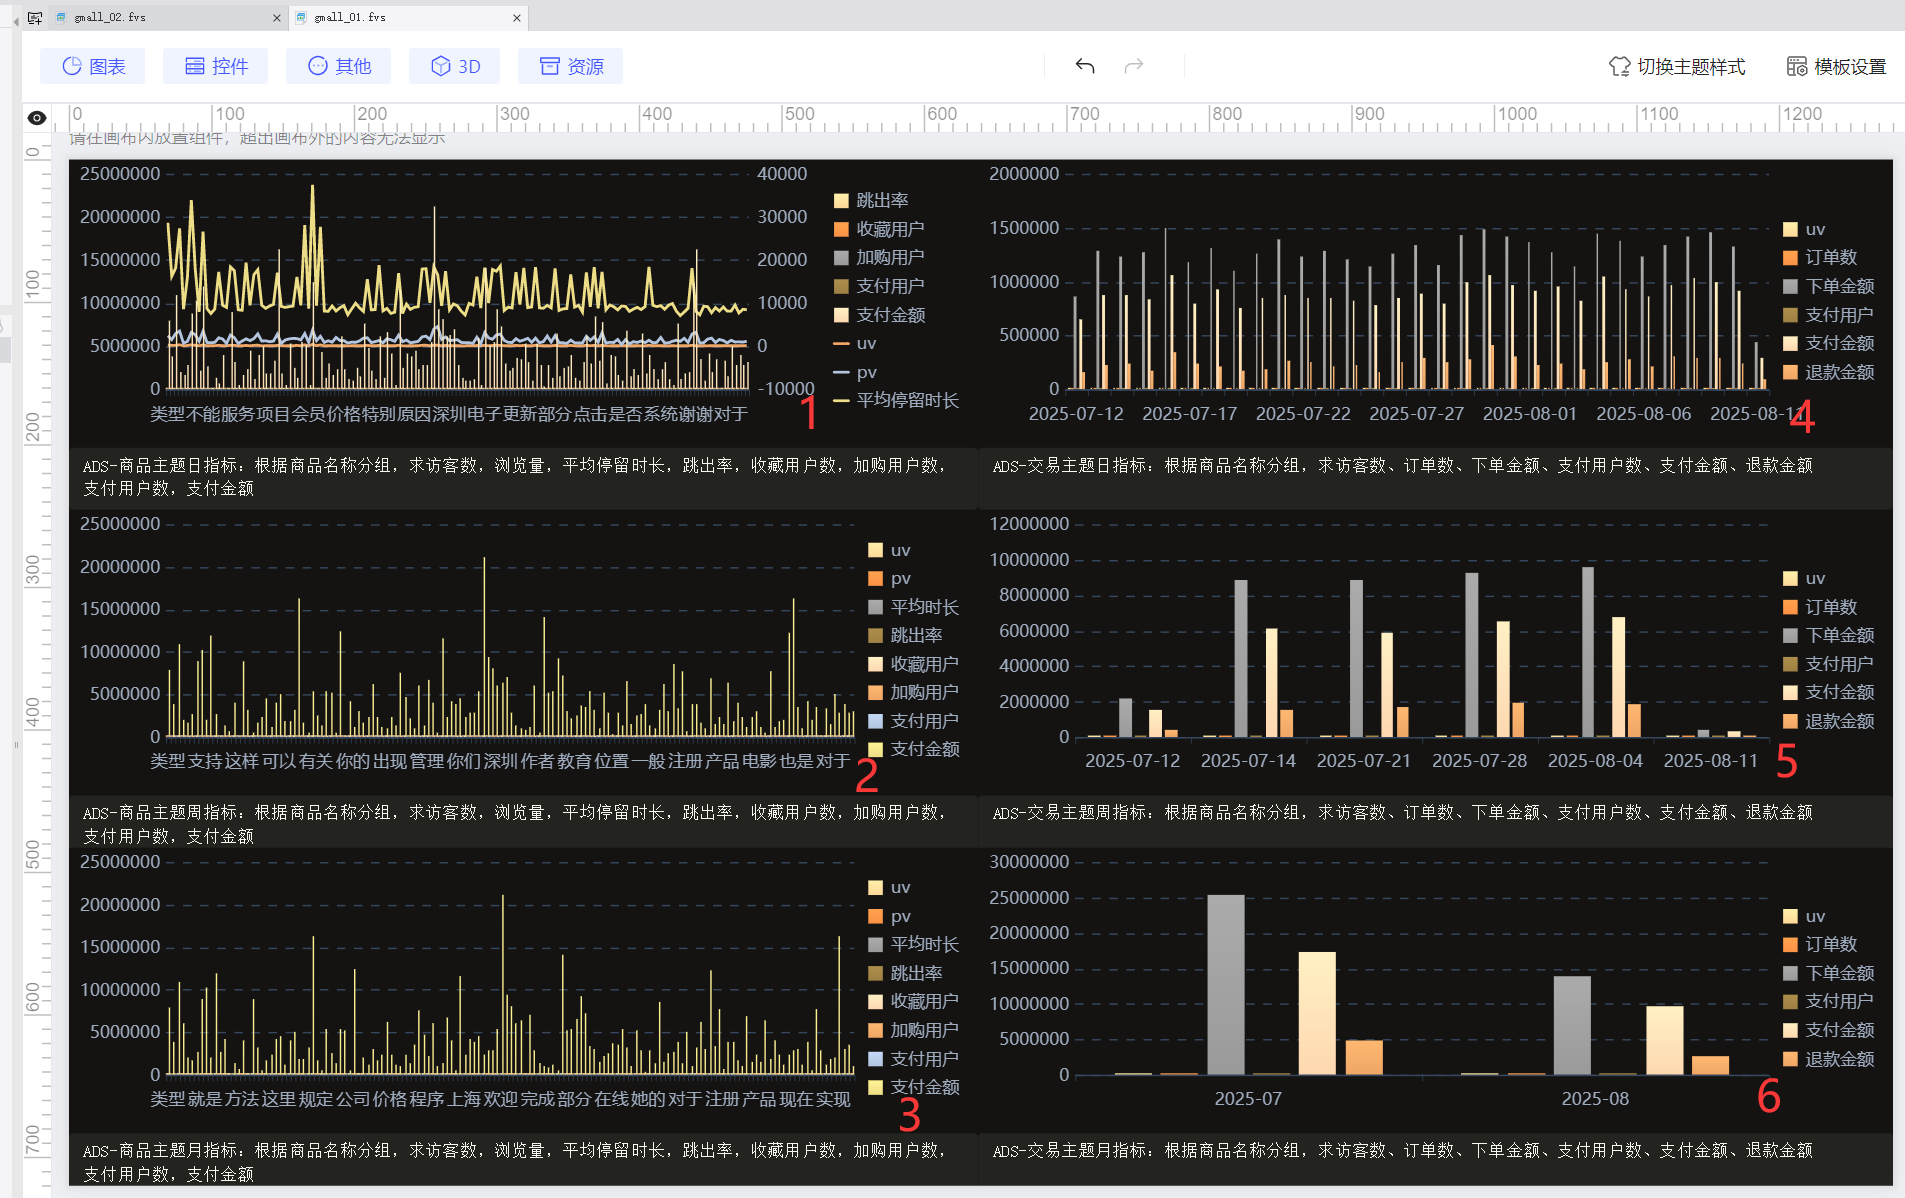
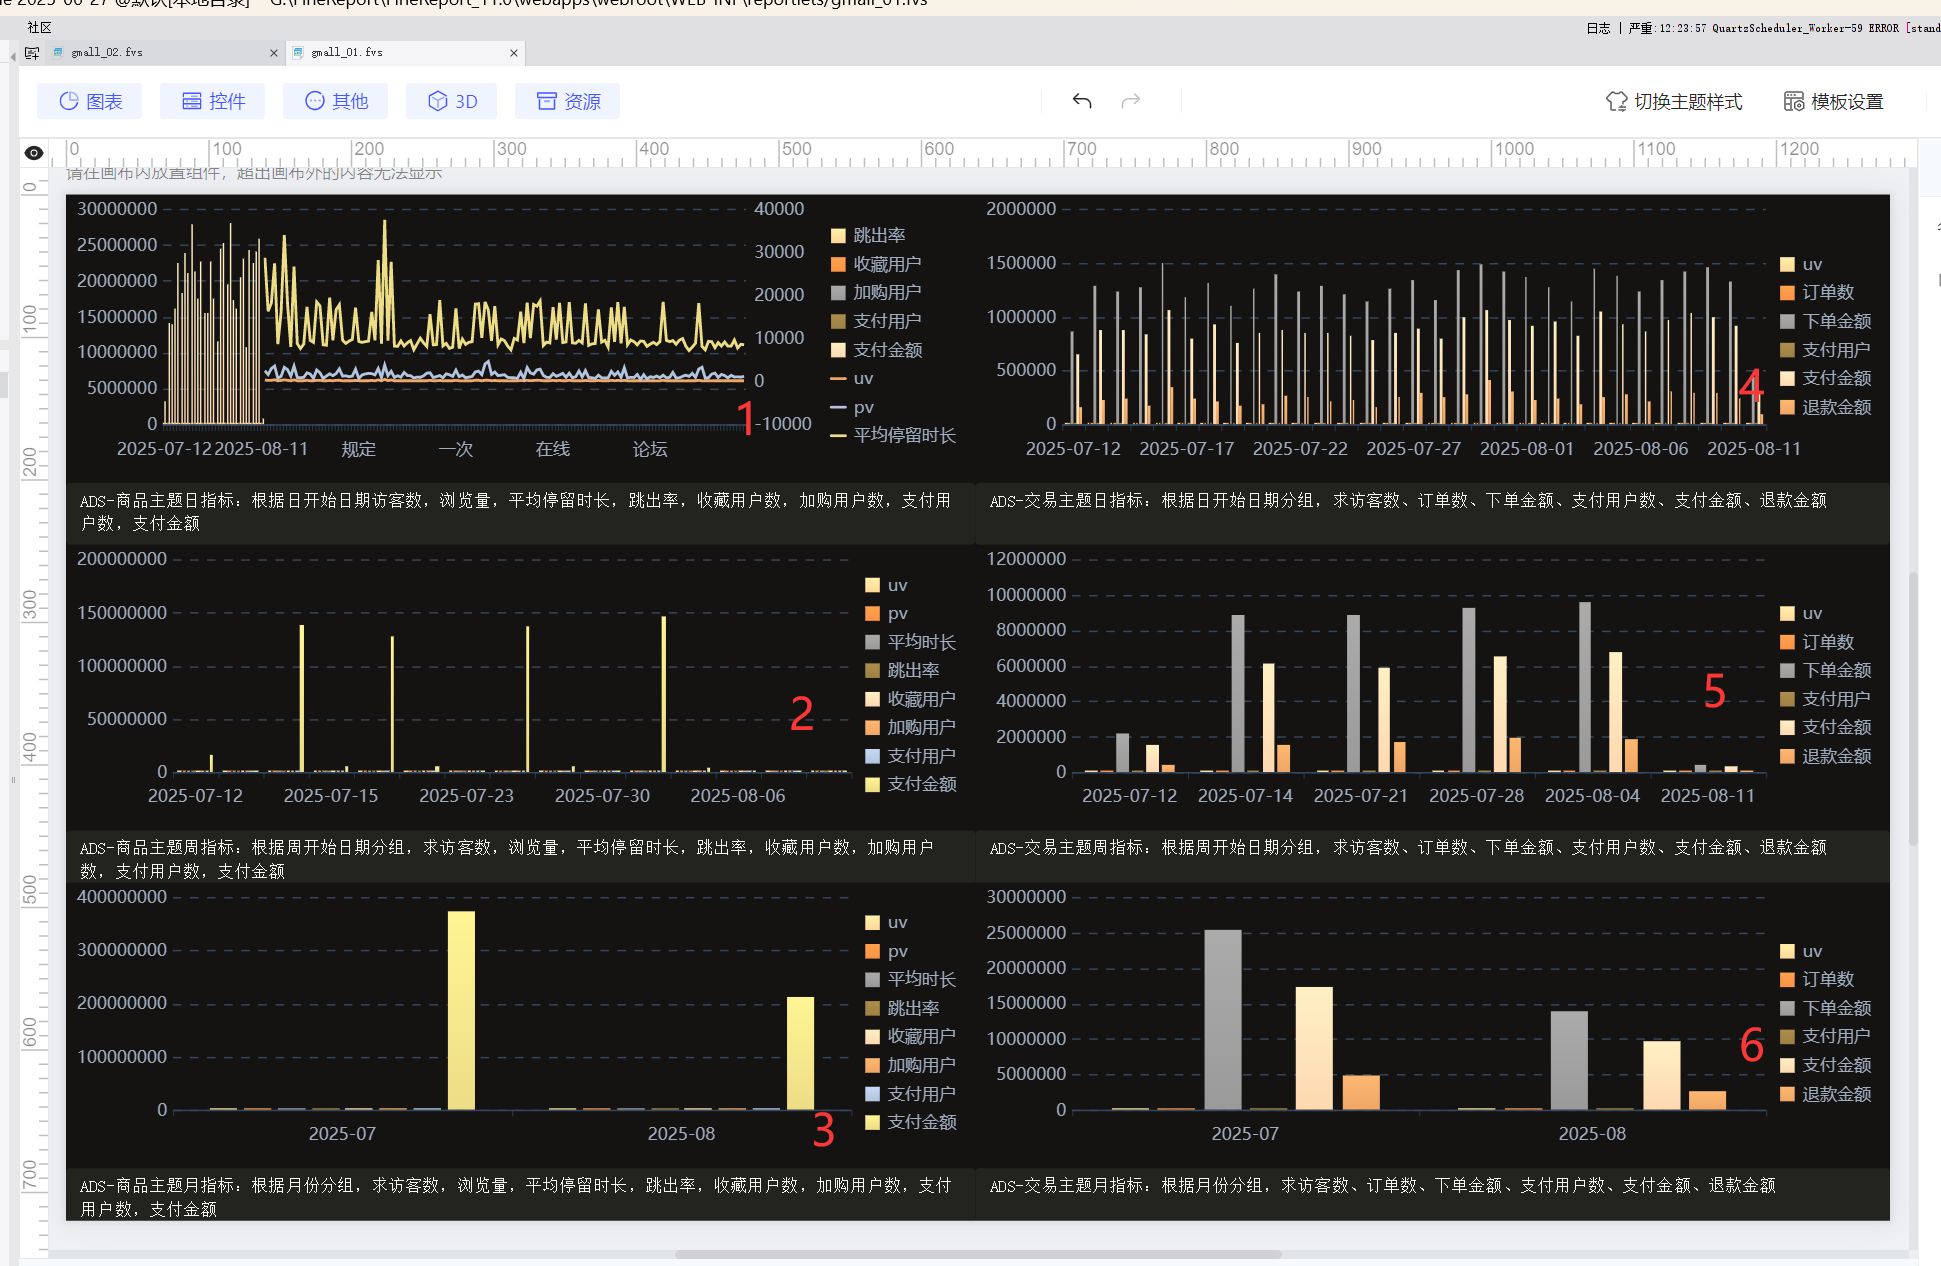
add 20250811 code

Changed region(s): [[0.0, 0.0, 1.0, 1.0], [0.0, 0.5868, 0.031, 0.6177], [0.0, 0.3397, 0.031, 0.3706]]

diff --git a/面试录音/焦欣意-20250603 江苏美好超市有限公司 1面-Eric.md b/面试录音/焦欣意-20250603 江苏美好超市有限公司 1面-Eric.md
@@ -1,0 +1,67 @@
+涵哥：你好啊。可以听见吗？你好。
+
+面试官：能听清我说话。吗？
+
+涵哥：能听到的。
+
+面试官：可以听见，是吧
+
+涵哥：对的
+
+面试官：可以方便打开一下摄像头吗？
+
+涵哥：方便的诶
+
+面试官：这边那先辛苦你做一下这个，简单介绍一下吧。
+
+涵哥：好的好的啊。面试官你好，我叫焦欣意，然后目前从事数据开发工作的话，差不多是 5 年多 5 年左右的开发经验，然后之前的话
+
+面试官：稍等一下，稍等一下。好的，
+
+面试官：现在还现在能听我说话吗？
+
+涵哥：嗯，可以的。
+
+面试官：OK 的，是吧 好好的，那你辛苦，你再介绍一下吧。
+
+涵哥：好的，然后面试官你好，我叫焦欣意，然后目前从事数据开发工作的话，差不多是 5 年多的开发经验。之前的话主要做的是一些电商数据这一块做得比较多，然后像其他部分的话，主要做的是一些像实时离线都是有涉及到的。然后实时部分的话主要是 Flink SQL、 Flink jar这一块做得比较多，然后离线的话主要就是 Hive SQL 这一块，然后云平台的话就是阿里云体系的Dataworks、 datafin 有过一些接触，然后像是这些 datahub 这块也会有接触。对，然后以上的话就是我的一个简单的自我介绍，谢谢面试官。
+
+面试官：是能听见吗。
+
+涵哥：能听到的
+
+面试官：也不太清楚，我那边好像听不太清你说的话好像啊。
+
+涵哥：我可能是我这边是手机那个什么比较卡，那这样吧，我先把那个视频关一下，您看一下会不会好一点。
+
+面试官：现在可以了，现在也差不多。
+
+涵哥：好像OK，没问题。
+
+面试官：现在可以，声音可能要需要你稍微大一点，你 5 年，我看一下你上份工作，你是在一家公司是一直工到工作到现在是吗？
+
+涵哥：对的。
+
+面试官：你这家公司是在深圳是吧。
+
+涵哥：对，但是有的时候会出差，会去别的地方。
+
+面试官：你们是做的是外包还是做的是自研的。
+
+涵哥：主要做的是外包，做的是一些项目。
+
+面试官：是外包项目，是吧？对，我看一下你最近的，你最近做的那个项目，这是离线的吗？
+
+面试官：最后这个横商的那个应该算是离线实时都有。
+
+面试官：就是这个横算支付平台这个。项目
+
+涵哥：对，它其实应该都是有都有。
+
+面试官：嗯，这个项目你可以简单介绍一下。
+
+涵哥：可以，这个项目的话它本身它是 Lambda 的架构，然后大多数的数据的话它其实都是离线那边做计算，然后实时的数据的话相对来说会少一些。实时的数据基本上是针对于当天的营收，当天的效能这一块做一些实时统计。这是第一个，第二个的话离线这边大多数都是在基于会员主题、销售主题、财务主题，然后库存主题这几个方面进行展开，然后做一些指标上的求和跟计算。实时这边的话主要针对于线下门店的销售数据，然后各个货品中转仓的这种流动率、流通性这些做一些计算，数据源的话主要是 MySQL 跟 SQL Server 这两个。还有一部分的话是几台 Oracle 的财务数据库，我们会把这部分的数据通过数据管道，相当于是接出来，接出来之后在数仓当中再去做数据的一个分析，跟数据的一个分层，然后最后的话报表可视化用的是fine report，就是翻量的一些产品用得比较多。
+
+面试官：基本上像你们在这个项目里面就是整体的，就是它的一个数据链路，它是有几条数据链路，它整个的一个数据流向是什么样子的啊？
+
+涵哥：整个的数据流向，整个的数据流向的话就是通过几个点，第一个就是说 MySQL 跟 SQL Server 的数据

diff --git a/工单设计文档/工单/电商数仓/01-商品主题宏观监控看板/设计文档.md b/工单设计文档/工单/电商数仓/01-商品主题宏观监控看板/设计文档.md
@@ -324,9 +324,15 @@
 5. **性能优化**：在DWS层完成复杂计算，ADS层简单汇总或直接引用。
 # 报表
 ![img.png](img.png)
-   图一：ADS-商品主题日指标：根据商品名称分组，求访客数，浏览量，平均停留时长，跳出率，收藏用户数，加购用户数，支付用户数，支付金额
-   图二：ADS-商品主题周指标：根据商品名称分组，求访客数，浏览量，平均停留时长，跳出率，收藏用户数，加购用户数，支付用户数，支付金额
-   图三：ADS-商品主题月指标：根据商品名称分组，求访客数，浏览量，平均停留时长，跳出率，收藏用户数，加购用户数，支付用户数，支付金额
-   图四：ADS-交易主题日指标：根据商品名称分组，求访客数、订单数、下单金额、支付用户数、支付金额、退款金额
-   图五：ADS-交易主题周指标：根据商品名称分组，求访客数、订单数、下单金额、支付用户数、支付金额、退款金额
-   图六：ADS-交易主题月指标：根据商品名称分组，求访客数、订单数、下单金额、支付用户数、支付金额、退款金额
+
+    图一：ADS-商品主题日指标：根据日开始日期分组，求访客数，浏览量，平均停留时长，跳出率，收藏用户数，加购用户数，支付用户数，支付金额
+    
+    图二：ADS-商品主题周指标：根据周开始日期分组，求访客数，浏览量，平均停留时长，跳出率，收藏用户数，加购用户数，支付用户数，支付金额
+    
+    图三：ADS-商品主题月指标：根据月份分组，求访客数，浏览量，平均停留时长，跳出率，收藏用户数，加购用户数，支付用户数，支付金额
+    
+    图四：ADS-交易主题日指标：根据日开始日期分组，求访客数、订单数、下单金额、支付用户数、支付金额、退款金额
+    
+    图五：ADS-交易主题周指标：根据周开始日期分组，求访客数、订单数、下单金额、支付用户数、支付金额、退款金额
+    
+    图六：ADS-交易主题月指标：根据月份分组，求访客数、订单数、下单金额、支付用户数、支付金额、退款金额

diff --git a/docs/250811/20250811.md b/docs/250811/20250811.md
@@ -1,4 +1,4 @@
 #### 20250811 李雨桓 工作日报
 * 1.电商02报表![img_1.png](img_1.png)
-* 2.电商01报表![img_2.png](img_2.png)
-* 3.听面试录音![img.png](img.png)
+* 2.电商01报表![img_4.png](img_4.png)
+* 3.听面试录音![img.png](img.png)![img_3.png](img_3.png)
